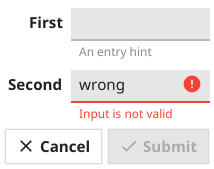
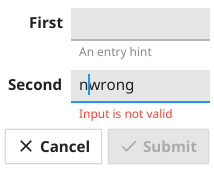
Don't show Entry validation errors immediately
This is a special case for Entry, we can work on it as we add validation elsewhere.
Now a form can be invalid without lots of error messages on initial load

Changed region(s): [[0.3645, 0.4438, 0.6449, 0.5621], [0.3364, 0.5917, 0.9813, 0.6213], [0.8411, 0.4438, 0.9533, 0.5621]]

diff --git a/widget/form.go b/widget/form.go
@@ -17,6 +17,7 @@ type FormItem struct {
 	HintText string
 
 	validationError error
+	invalid         bool
 	helperOutput    *canvas.Text
 }
 
@@ -142,7 +143,7 @@ func (f *Form) checkValidation(err error) {
 	}
 
 	for _, item := range f.Items {
-		if item.validationError != nil {
+		if item.invalid {
 			f.submitButton.Disable()
 			return
 		}
@@ -153,9 +154,13 @@ func (f *Form) checkValidation(err error) {
 
 func (f *Form) setUpValidation(widget fyne.CanvasObject, i int) {
 	if w, ok := widget.(fyne.Validatable); ok {
-		f.Items[i].validationError = w.Validate()
+		f.Items[i].invalid = w.Validate() != nil
+		if e, ok := w.(*Entry); ok && e.Validator != nil {
+			e.SetValidationError(nil) // clear initial state, will appear when we type
+		}
 		w.SetOnValidationChanged(func(err error) {
 			f.Items[i].validationError = err
+			f.Items[i].invalid = err != nil
 			f.checkValidation(err)
 			f.updateHelperText(f.Items[i])
 		})

diff --git a/widget/form_test.go b/widget/form_test.go
@@ -148,9 +148,12 @@ func TestForm_Hints(t *testing.T) {
 	w := test.NewWindow(form)
 	defer w.Close()
 
+	test.AssertImageMatches(t, "form/hint_initial.png", w.Canvas().Capture())
+
+	test.Type(entry2, "n")
 	test.AssertImageMatches(t, "form/hint_invalid.png", w.Canvas().Capture())
 
-	test.Type(entry2, "not-")
+	test.Type(entry2, "ot-")
 	test.AssertImageMatches(t, "form/hint_valid.png", w.Canvas().Capture())
 }
 
